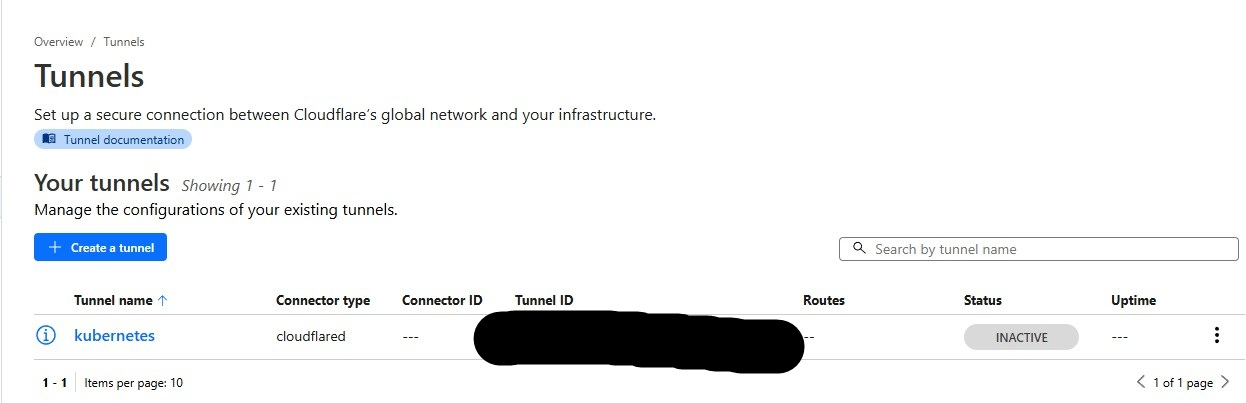
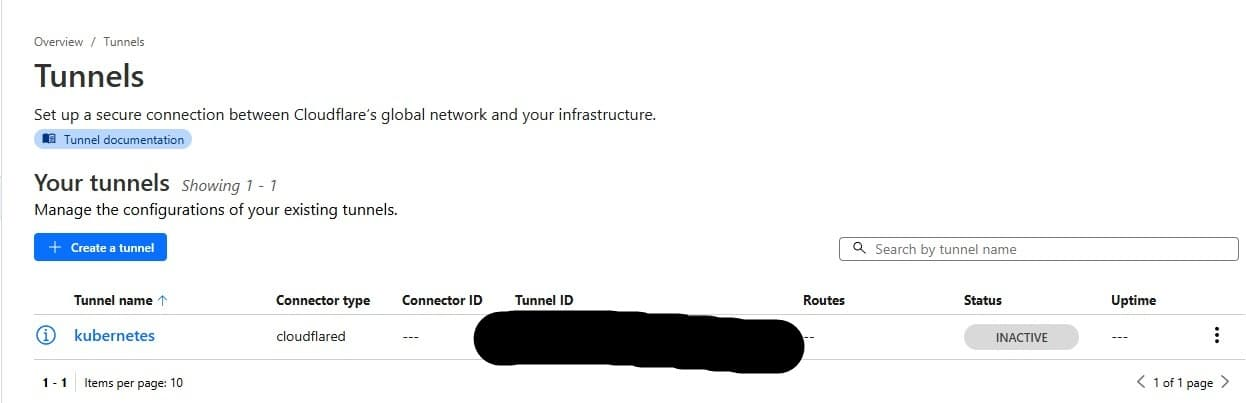
squish older images

diff --git a/add-an-app/add-an-app.md b/add-an-app/add-an-app.md
@@ -1,1 +1,24 @@
-Handy placeholder for the next act...
+# Act 4 - Add an app
+
+[Last time](../echo-chamber/echo-chamber.md) we learned how to modify our running cluster by
+eliminating our beloved echo service.  We observed that we can easily modify the configuration
+of our cluster, commit to our repository, and the changes are applied immediately.  We saw
+that our configuration changes affect DNS entries, certificates, routing, and running containers.
+
+This time instead of destroying resources, let's create something new.
+
+# Echo's remains
+
+To figure out what we need to do let's poke around in echo's remains, we left its config in our
+repo, it's just not referenced anymore.
+
+---
+
+![vscode](img/vs-echo.jpg)
+
+- Let's copy the echo directory into a new a `hello` directory:
+
+---
+
+![vscode](img/vs-hello.jpg)
+
